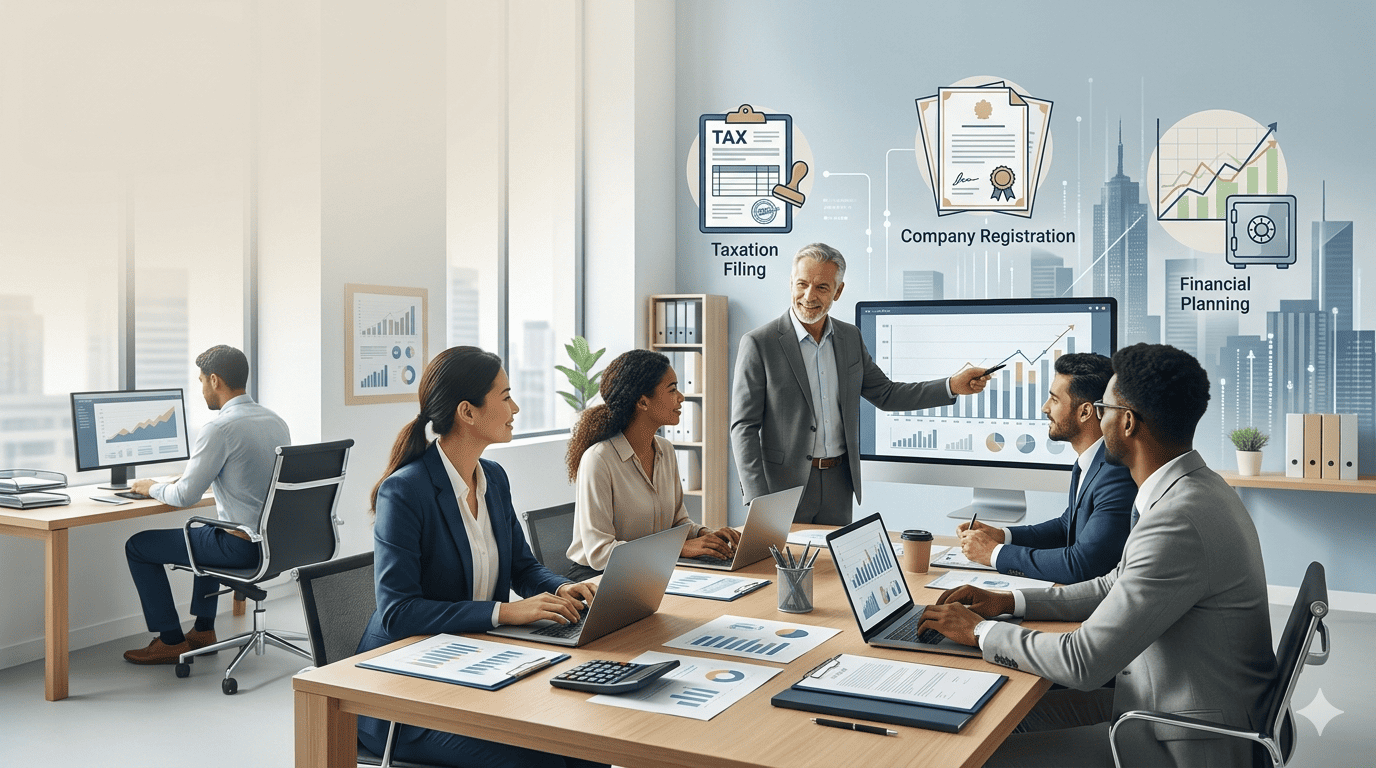
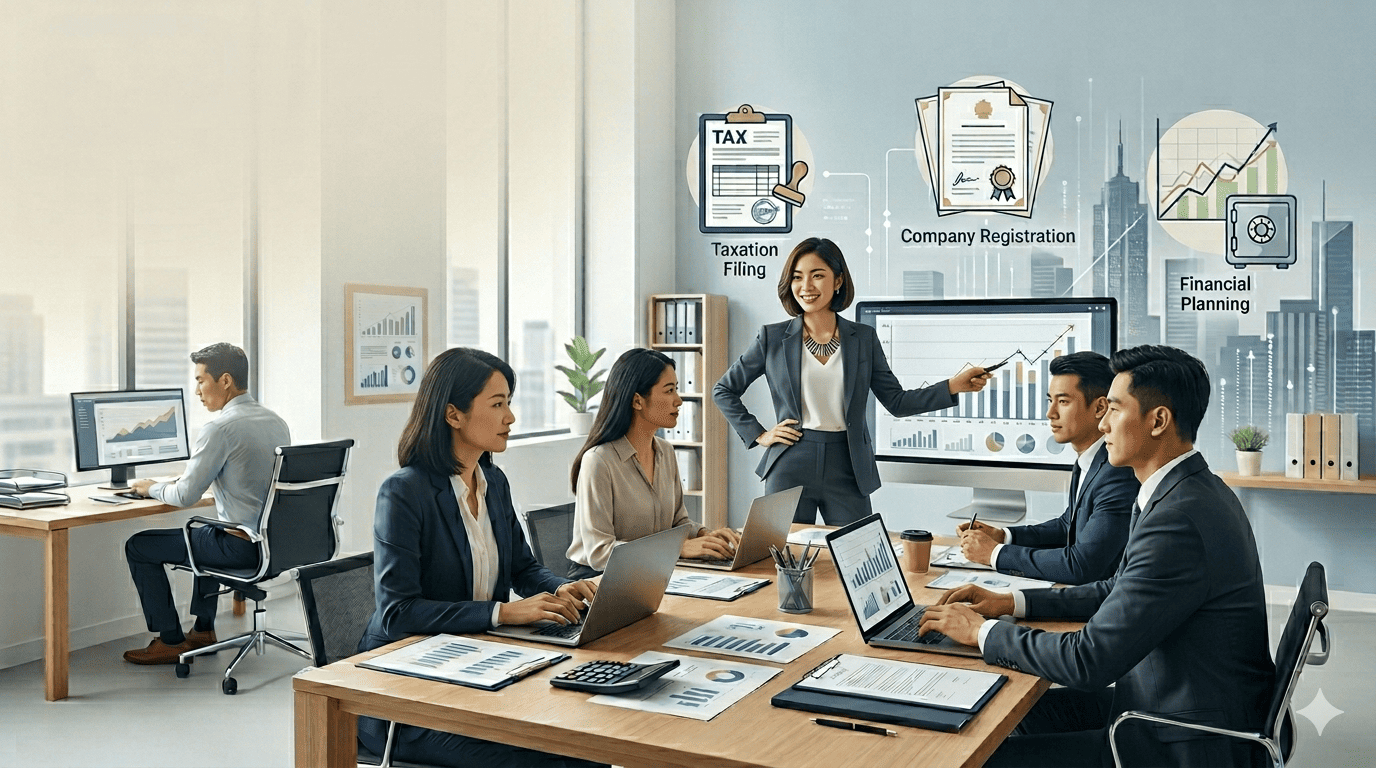
替换首页背景图，调整透明度为 .6

diff --git a/index.html b/index.html
@@ -165,7 +165,7 @@ nav{
 .hero::before{
   content:'';position:absolute;inset:0;
   background:url('images/hero-bg.png') center/cover no-repeat;
-  opacity:.06;pointer-events:none;
+  opacity:.6;pointer-events:none;
 }
 .hero-bg{
   position:absolute;top:-30%;right:-10%;width:600px;height:600px;
